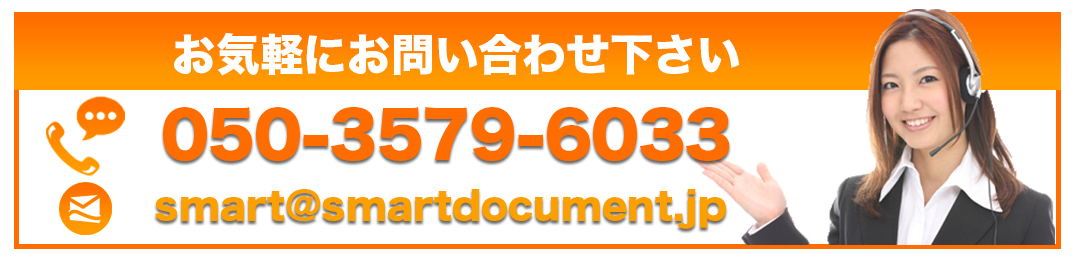
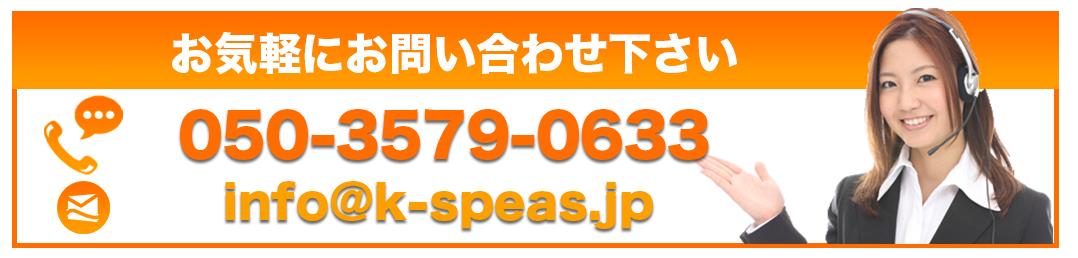
mail

Changed region(s): [[0.0, 0.031, 1.0, 0.9922], [0.1531, 0.4031, 0.7041, 0.6512], [0.1531, 0.124, 0.7041, 0.3101]]

diff --git a/app/mailers/contact_mailer.rb b/app/mailers/contact_mailer.rb
@@ -1,7 +1,7 @@
 class ContactMailer < ActionMailer::Base
-  default from: "smart@smart-document.jp"
-  default to: "smart@smart-document.jp"
-  
+  default from: "info@k-speas.jp"
+  default to: "info@k-speas.jp"
+
   def received_email(contact)
     @contact = contact
     mail(subject: 'webサイトよりメッセージが届きました') do |format|
